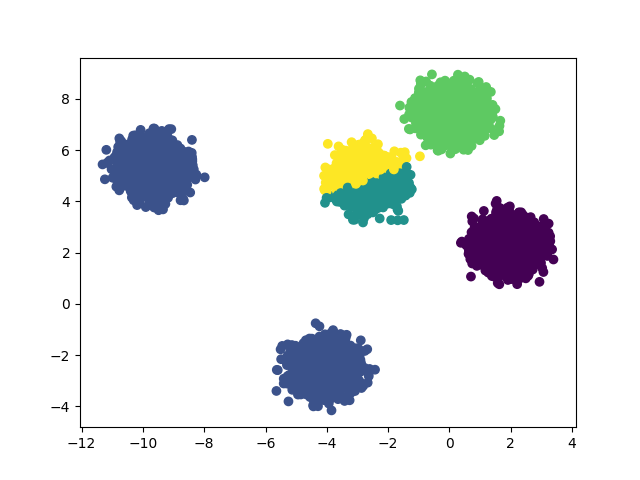
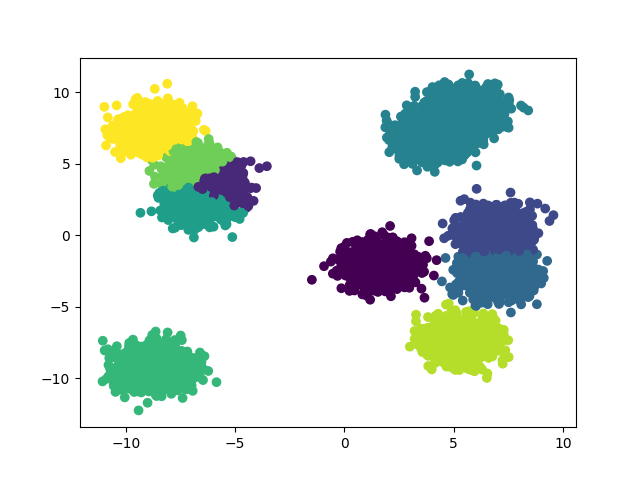
cleanup, lighten up the code

diff --git a/kmeans.py b/kmeans.py
@@ -1,24 +1,16 @@
 import numpy as np
 
-CONST_POINT_INIT='points'
-CONST_UNIF_INIT='unif'
-
 class KMeans:
-    def __init__(self, K=3, init=CONST_POINT_INIT):
+    def __init__(self, K=3):
         self.K = K
         self.labels = None
         self.old_labels = None
-        self.init = init
     
     def init_means(self, X, K):
-        labels = self.assign_random_labels(X, K)
-        mu = self.compute_mu(X,K,labels)
-        print("Initial mu shape:")
-        print(mu.shape)
-        return mu
+        return self.compute_mu(X,K,self.assign_random_labels(X, K))
     
     def init_means_points(self, X, K):
-        return np.array(X[np.floor(np.random.random(size=K)*X.shape[0]).astype('int')])
+        return np.array(X[np.floor(np.random.random(size=K)*X.shape[0]).astype('int'),:])
 
     def compute_mu(self, X, K, labels):
         return np.array([X[labels == i].mean(axis=0) for i in range(self.K)])
@@ -43,13 +35,9 @@ class KMeans:
 
     def fit(self, X):
         self.X = X
-        if self.init == CONST_POINT_INIT:
-            self.mu = self.init_means_points(self.X, self.K)
-        elif self.init == CONST_UNIF_INIT:
-            self.mu = self.init_means(self.X, self.K)
-        else
-            self.mu = self.init_means_points(self.X, self.K)
-            case _:
-                print('Warning: incorrect value specified for \'init\': {}', self.init)
+        self.mu = self.init_means_points(self.X, self.K)
+        #self.mu = self.init_means(self.X, self.K)
+        print("Initial mu:")
+        print(self.mu)
         while not self.iteration(self.X, self.K):
             print(self.mu)

diff --git a/main.py b/main.py
@@ -1,11 +1,12 @@
 
+
 from kmeans import KMeans
 from sklearn.datasets import make_blobs
 from matplotlib import pyplot as plt
 
 def main():
-    kmeans = KMeans(K=5)
-    data = make_blobs(10000, n_features=2, centers=5, cluster_std=0.5)
+    kmeans = KMeans(K=10)
+    data = make_blobs(10000, n_features=2, centers=10, cluster_std=0.8)
     print(data)
     kmeans.fit(data[0])
     labels = kmeans.predict(data[0])
